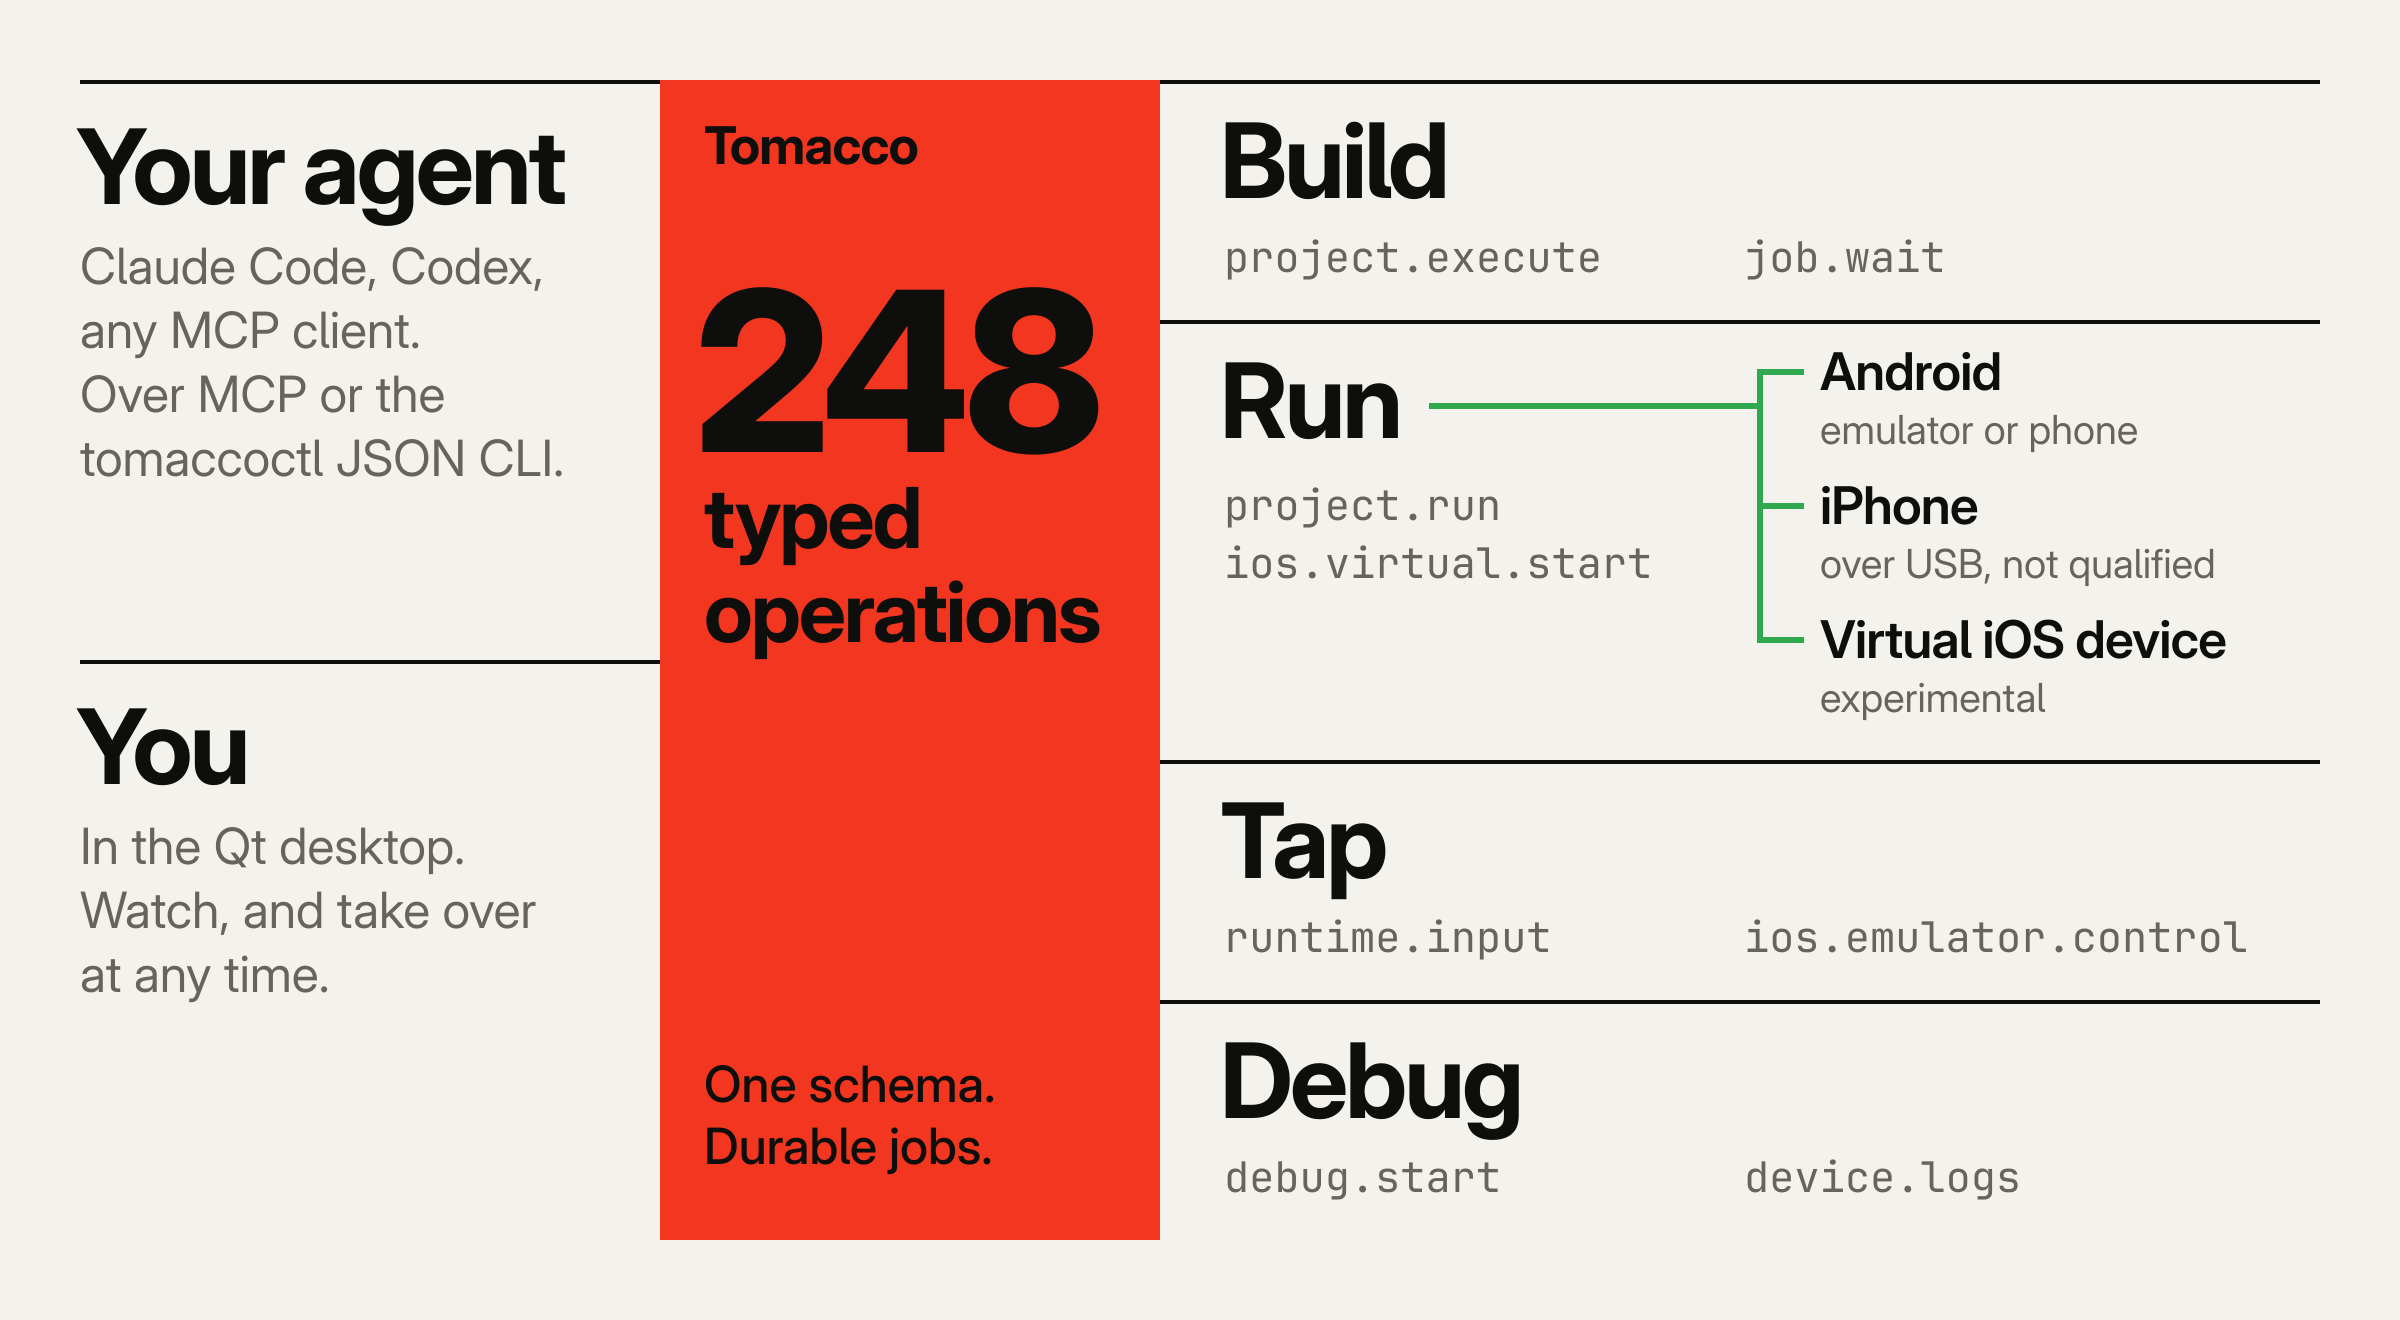
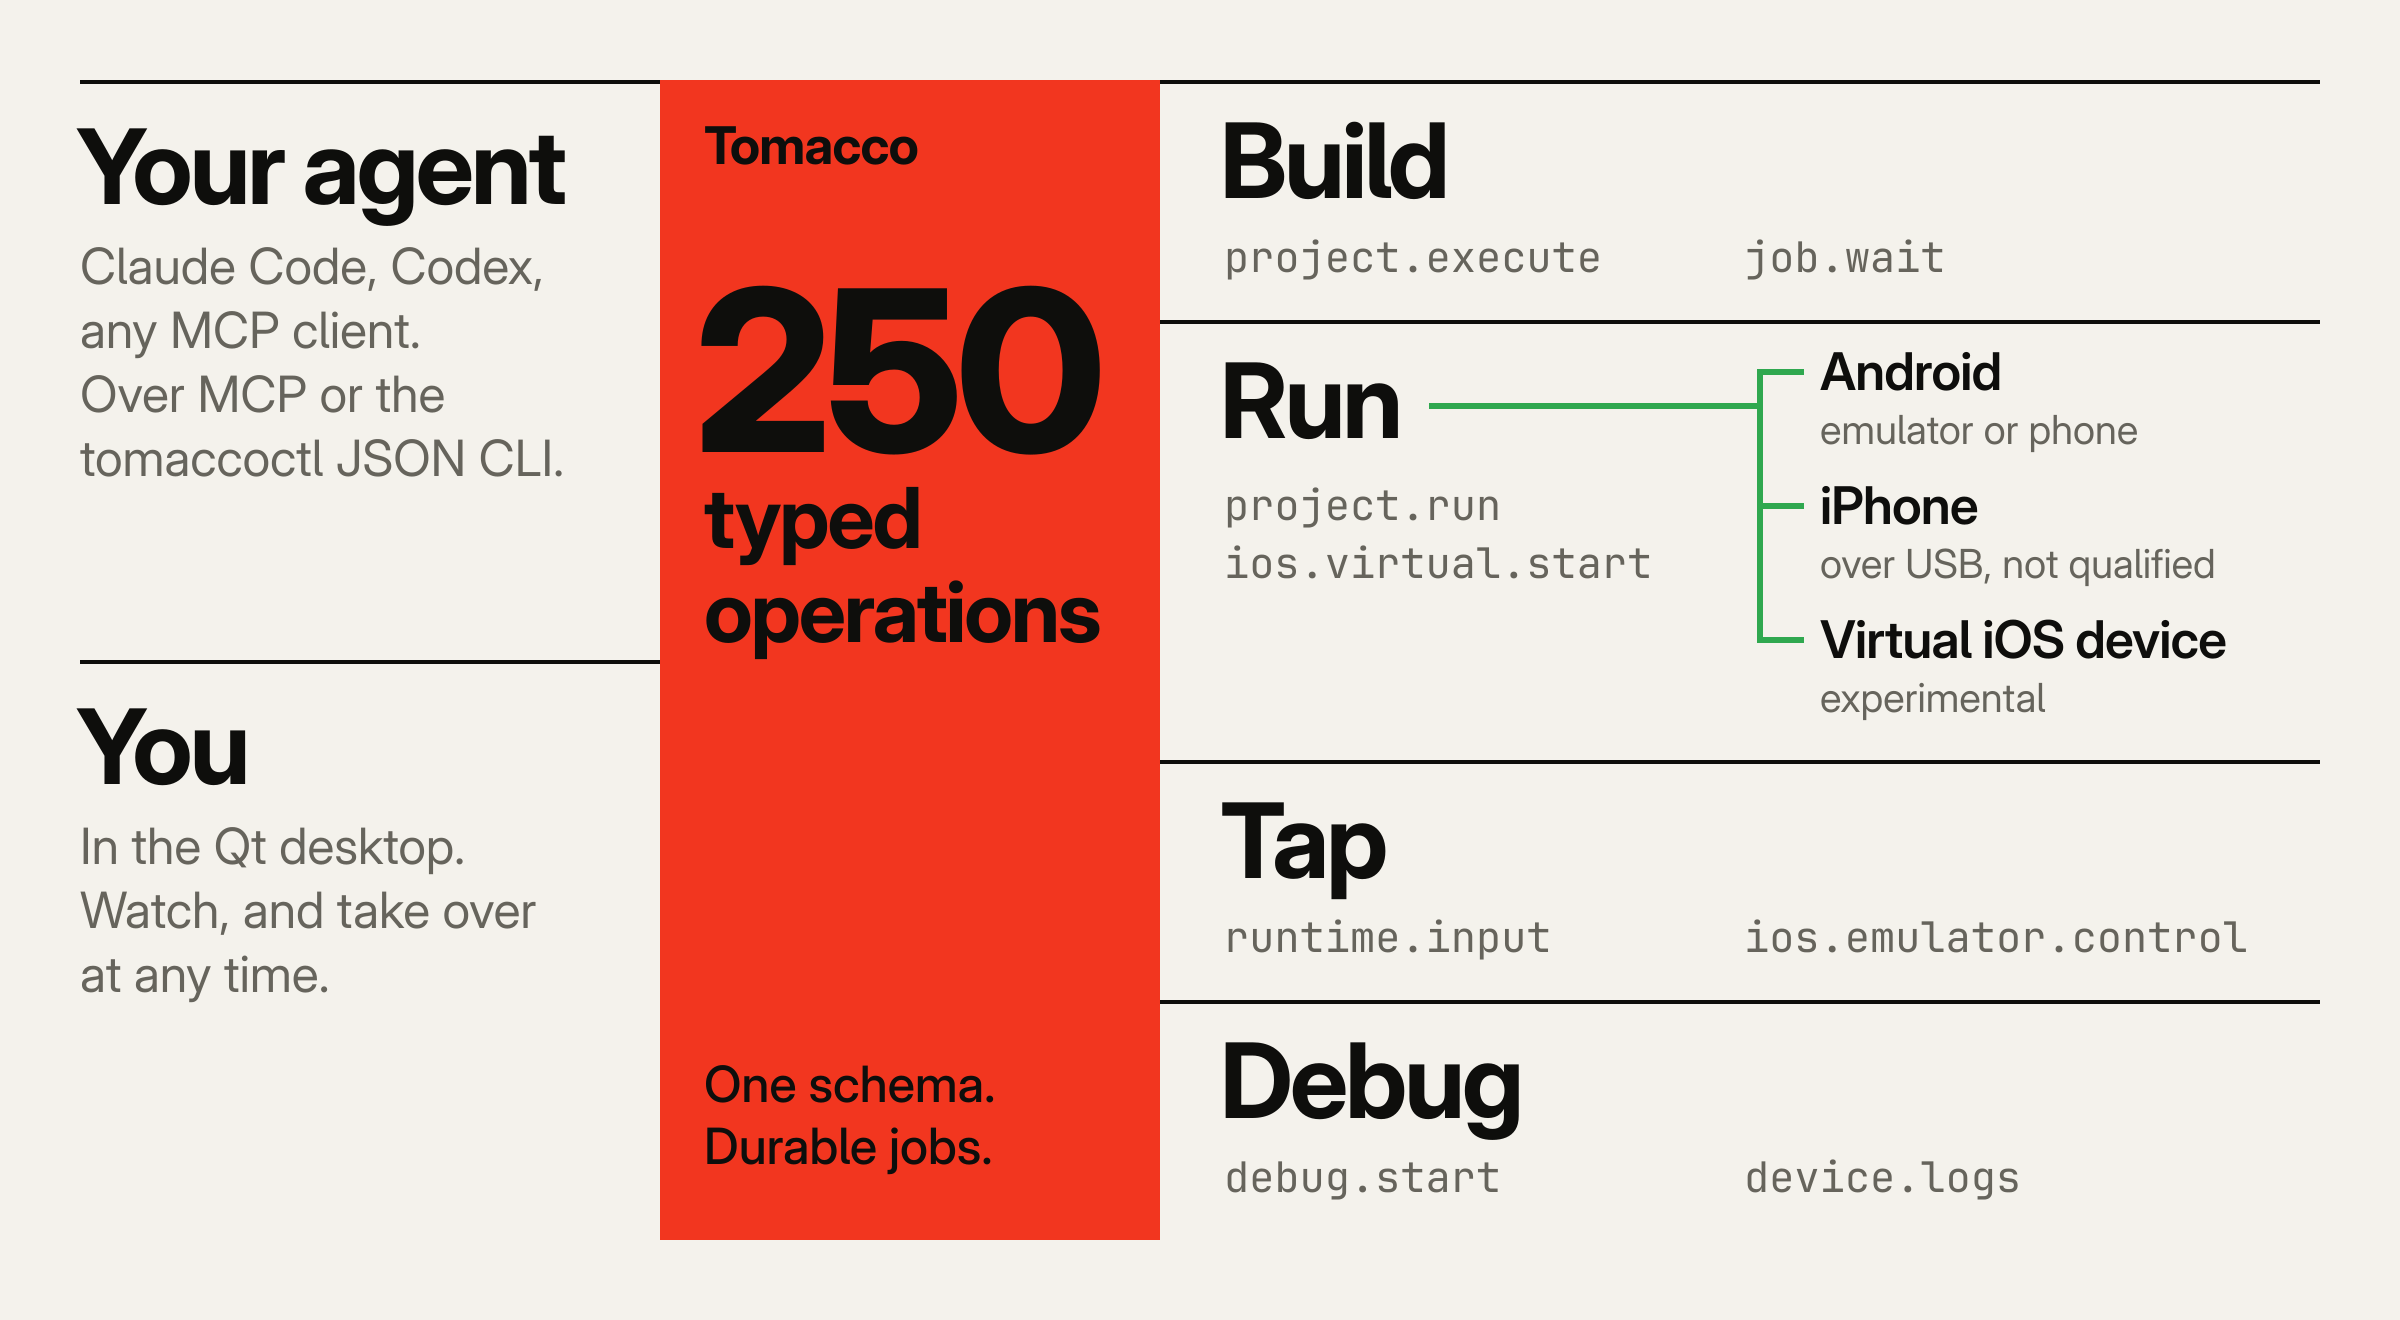
Screen export: counts, agent guide, changelog and regenerated README graphics

Changed region(s): [[0.3438, 0.2174, 0.4688, 0.3417]]

diff --git a/docs/agents.md b/docs/agents.md
@@ -89,14 +89,14 @@ The server also offers three prompts, short recipes a client can show as command
 
 ### A shorter tool list
 
-The full tool list is every operation with its whole schema, 316,174 bytes of `tools/list` response in this
+The full tool list is every operation with its whole schema, 321,785 bytes of `tools/list` response in this
 version. For an agent with a small context, set `TOMACCO_MCP_TOOLS` in the `env` of the client's server entry:
 
 | Value | Tools | `tools/list` response |
 | --- | --- | --- |
-| `full` (the default) | One per operation, with every description. | 316,174 bytes |
-| `compact` | One per operation; each description is its first sentence, arguments have no descriptions, and annotations equal to MCP's defaults are left out. | 156,075 bytes |
-| `grouped` | One per area, such as `android` or `job`: 29 tools. Each takes `operation`, the operation's name, and `arguments`, its own arguments, and its description lists the area's operations with their titles and whether each is read-only, writes or is destructive. | 33,004 bytes |
+| `full` (the default) | One per operation, with every description. | 321,785 bytes |
+| `compact` | One per operation; each description is its first sentence, arguments have no descriptions, and annotations equal to MCP's defaults are left out. | 157,922 bytes |
+| `grouped` | One per area, such as `android` or `job`: 29 tools. Each takes `operation`, the operation's name, and `arguments`, its own arguments, and its description lists the area's operations with their titles and whether each is read-only, writes or is destructive. | 33,148 bytes |
 
 The sizes were measured with this version's schema. In `compact` and `grouped` there is also a `schema` tool that
 answers one operation's whole schema, as does the resource `tomacco://reference/{operation}`. A grouped tool's
@@ -996,7 +996,7 @@ that one screen fixed the baseline. Kover and the `jacoco` plugin are unit-teste
 
 ### Seeing the screen
 
-Six operations help an agent understand what is on a screen instead of guessing coordinates. They work on an Android
+Eight operations help an agent understand what is on a screen instead of guessing coordinates. They work on an Android
 serial and on `virtual-iphone`; a USB iPhone is not covered. On Android they read the UI hierarchy. The virtual iPhone has
 none, only pixels, so there they read the screenshot with Tesseract OCR. Install `tesseract` and its English data for
 that (`capabilities` returns `ocr` with `ready` and `missing`; `TOMACCO_TESSERACT` names another executable). Every
@@ -1022,6 +1022,11 @@ handled by also reading the colour-inverted picture (`invert`, on `auto`).
   text, state or position) or two screenshots (`.png`: regions with box, size, share of changed pixels and position, and
   a note when only the status bar changed); `text:true` also lists lines of text added and removed. Give `device`
   instead of `after` to compare with the screen now.
+- **`screen.export`** writes one screen as a bundle: the screenshot at full resolution and a JSON file with the device,
+  display (pixels and dp or points), insets, theme, locale, foreground app and every element with bounds in pixels and
+  dp, state flags and its `screen.marks` number. Where there is no hierarchy the elements are OCR lines and
+  `hierarchy:"unavailable"` says so. `screen.export_batch` does this for several devices into one directory with an
+  `index.json`, and `screen.diff` accepts two bundles. [Screen export format](screen-export.md) is the field reference.
 - **`screen.wait`** waits for `text` to appear, for `text_gone`, or for the screen to be `stable` (no more than
   `threshold` of the pixels changing for `stable_ms`); a timeout answers `text_timeout` or `screen_unstable` with what
   it saw. The same waits are the `wait_text` and `wait_stable` steps of a `testing.run` scenario.

diff --git a/CHANGELOG.md b/CHANGELOG.md
@@ -6,10 +6,19 @@ operations and their JSON results.
 
 ## Unreleased
 
-`tomaccoctl` now has one typed API of 248 operations.
+`tomaccoctl` now has one typed API of 250 operations.
 
 ### Added
 
+- `screen.export` writes a screen of a device as a documented, versioned bundle (format `tomacco.screen`, version 1):
+  `screen.png` at full resolution and `screen.json` with the device, display in pixels and dp or points, system bar and
+  cutout insets, theme, locale, foreground app and every element with its role, text, bounds in both units, state and
+  `screen.marks` number. Android elements come from the UI hierarchy; the virtual iPhone and a USB iPhone (`platform:"ios"`)
+  have none, so there they are OCR lines with `hierarchy:"unavailable"`. `screen.export_batch` exports several devices
+  into one directory with an `index.json`, and `screen.diff` compares two bundles. JSON Schemas are in `assets/schemas`
+  and [docs/screen-export.md](docs/screen-export.md) has the field reference and versioning rules. Run on an emulator
+  with hardware acceleration; the iPhone paths are unit-tested only. New errors: `invalid_export`,
+  `unsupported_export_version`, `unsupported_device`.
 - `tools/build_site_docs.py` renders the Markdown in `docs/` as static pages for the website (guides, virtual iOS
   device, operation reference), with a guide list, a table of contents per page and no script. A test checks that every
   document renders and every link and anchor in the output resolves; `docs/building.md` says how to regenerate them.
@@ -31,8 +40,8 @@ operations and their JSON results.
   an `ios.virtual.setup` stage marked `ask_first`, instead of the call failing or the agent having to ask. A no answers
   `consent_declined`. Other clients see no change.
 - `TOMACCO_MCP_TOOLS` picks a shorter MCP tool list for agents with a small context: `compact` (first sentences, no
-  argument descriptions; 156,075 bytes instead of 316,174) or `grouped` (one tool per area that takes an operation and
-  its arguments; 33,004 bytes). Both add a `schema` tool for one operation's whole schema.
+  argument descriptions; 157,922 bytes instead of 321,785) or `grouped` (one tool per area that takes an operation and
+  its arguments; 33,148 bytes). Both add a `schema` tool for one operation's whole schema.
 - **Quick Boot.** `android.emulator` `stop` saves a Tomacco-managed emulator's Quick Boot snapshot first
   (`save_quick_boot`, on by default), and `android.avd_start` resumes from it; its result's `boot` says `quick` or
   `cold` and why. After `android.avd_configure` or `android.avd_profile` the old snapshot is removed once. On the

diff --git a/docs/README.md b/docs/README.md
@@ -1,7 +1,7 @@
 # Tomacco documentation
 
 Tomacco is a mobile development workbench for Linux. A Qt desktop and a command-line
-tool, `tomaccoctl`, share the same 248 typed operations, so a person and a coding agent
+tool, `tomaccoctl`, share the same 250 typed operations, so a person and a coding agent
 can do the same things. These guides describe version 1.2.1; the
 [release notes](RELEASE_NOTES.md) say what is new in it and what was not tested.
 
@@ -13,6 +13,7 @@ can do the same things. These guides describe version 1.2.1; the
 | Go from an install to a Compose app on the emulator, with a screenshot and a UI test | [Your first Android app](tutorial-android.md) |
 | Have my coding agent set everything up | [Agent setup](agent-setup.md) |
 | Connect a coding agent over MCP or the JSON CLI | [Agents](agents.md) |
+| Hand a device screen, with its geometry and element tree, to a design tool, an agent or a comparison | [Screen export format](screen-export.md) |
 | Run tomaccoctl headless in Docker, for an agent, a server or CI | [Container image](container.md) |
 | Know what ran on which Linux distribution, and use Tomacco on SteamOS, NixOS, Silverblue or a small computer | [Linux distributions and hardware](linux-hosts.md) |
 | Copy a short sequence: build and run, screenshot and UI test, iOS build, virtual iPhone deploy | [Recipes](recipes.md) |

diff --git a/README.md b/README.md
@@ -28,7 +28,7 @@
 Your coding agent can write an app. Tomacco lets it build that app, run it on a
 device, tap through the interface, inspect the result and try again.
 
-The agent and the **native Qt desktop** use the same **248 typed operations**
+The agent and the **native Qt desktop** use the same **250 typed operations**
 through MCP or the `tomaccoctl` JSON CLI. You can watch the live device, take over
 with touch and gestures, and share the same builds, logs and debugging session.
 The desktop supports English, German, French, Spanish and Italian.

diff --git a/docs/agent-patterns.md b/docs/agent-patterns.md
@@ -139,7 +139,7 @@ status is not 0. Branch on `code`; show the user `message`; follow `remedy`. Rea
 ## Safe and destructive operations
 
 Every operation carries the four MCP annotations, and `tomaccoctl schema` shows them under
-`annotations`. Of the 248 operations, 86 are read-only and 26 are destructive.
+`annotations`. Of the 250 operations, 86 are read-only and 26 are destructive.
 
 | Annotation | What it means for an agent |
 | --- | --- |

diff --git a/integrations/agent-skill/tomacco/SKILL.md b/integrations/agent-skill/tomacco/SKILL.md
@@ -12,7 +12,7 @@ description: >
 
 # Tomacco
 
-Tomacco builds, runs and tests mobile apps on Linux. Its control plane, `tomaccoctl`, offers 248
+Tomacco builds, runs and tests mobile apps on Linux. Its control plane, `tomaccoctl`, offers 250
 typed operations. The MCP server, the JSON CLI and the desktop app all call the same operations, so
 anything the desktop does, you can do.
 
